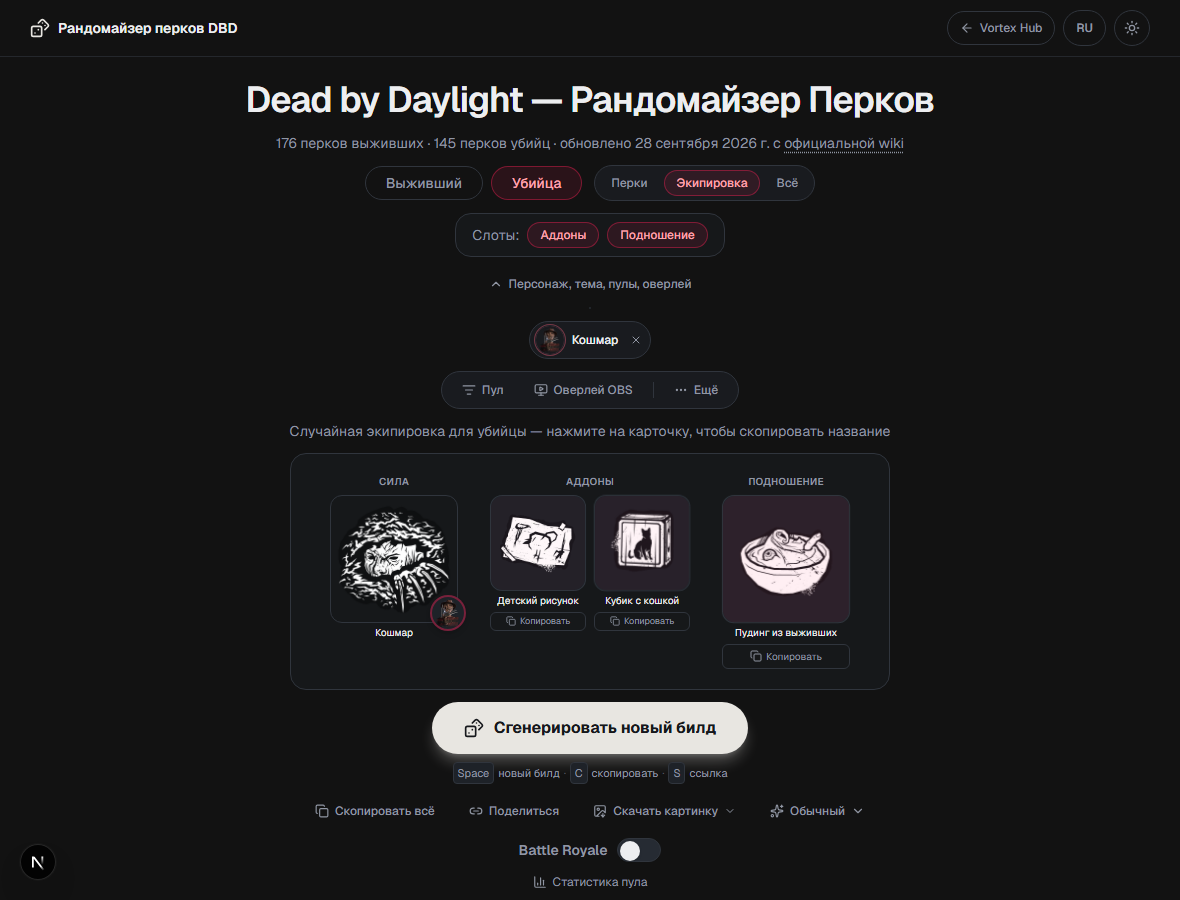
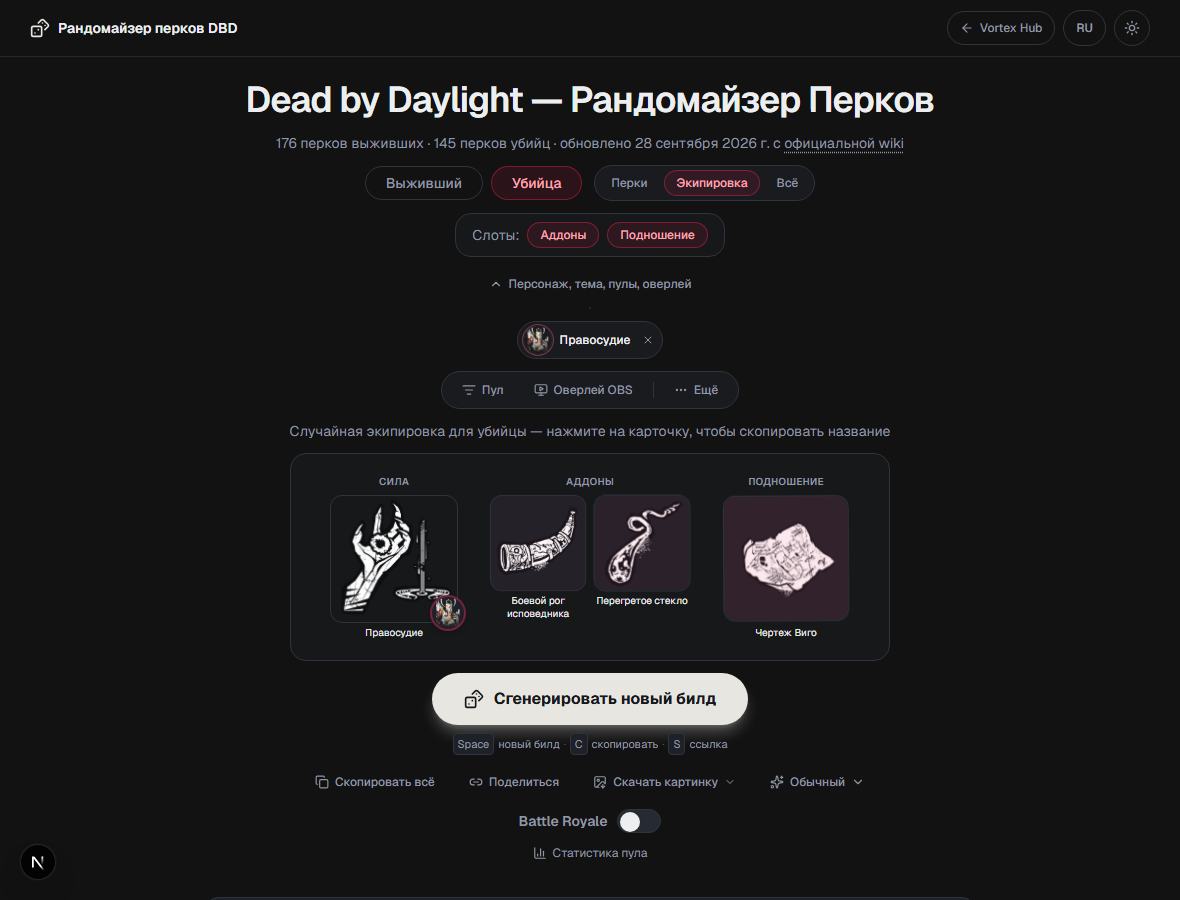
Match the loadout pieces to the perk cards
"All" mode showed two answers to the same question: perk cards had copy as
a corner icon, loadout pieces still had a labelled button under every
slot.

The corner affordance moved to components/dbd/card-affordance.ts so both
grids read from one definition rather than a copy that can drift.

Worth saying why this is safe, because the button being replaced carried a
comment defending itself: the loadout copy WAS a hover-only icon once, and
was made a labelled always-visible button precisely because a touch device
could never reveal it. The icon only comes back because the shared
treatment answers that — `pointer-coarse:opacity-100` turns it on and
sizes it to 40px wherever there is no hover. That clause is the whole
reason this is not a revert.

Copy now sits inside the tile, so it needed the stopPropagation the old
sibling button never did: the tile itself opens the description.

Named after the piece, like the perk cards. The stage controls and both
detail modals keep their labelled Copy.

diff --git a/components/dbd/loadout-grid.tsx b/components/dbd/loadout-grid.tsx
@@ -14,6 +14,7 @@ import { useDescription } from "@/lib/descriptions";
 import { DescriptionSkeleton } from "./perk-grid";
 import { useModal } from "@/lib/use-modal";
 import { ROLE_COLOR } from "@/lib/role-color";
+import { CORNER_BUTTON } from "./card-affordance";
 import { cn } from "@/lib/cn";
 import { GENERAL_CHARACTER } from "@/lib/types";
 import { useT } from "@/lib/i18n";
@@ -222,7 +223,7 @@ function PieceSlot({
   const dim = size === "lg" ? "size-24 sm:size-28 lg:size-32" : "size-16 sm:size-20 lg:size-24";
   const labelWidth = size === "lg" ? "w-24 sm:w-28 lg:w-32" : "w-16 sm:w-20 lg:w-24";
   return (
-    <div className="flex flex-col items-center gap-1">
+    <div className="group flex flex-col items-center gap-1">
       <div className={cn(dim, "relative shrink-0")}>
         <AnimatePresence mode="wait">
           {piece ? (
@@ -299,6 +300,24 @@ function PieceSlot({
                 alt={piece.name[language]}
                 className="size-full icon-art object-cover"
               />
+              {/* stopPropagation, because this one sits INSIDE the tile.
+                  The old button was a sibling below it and never had to
+                  care; here the tile itself opens the description, and
+                  without this every copy would open it too. Same hazard
+                  the perk cards have — see lib/focus.ts. */}
+              <button
+                type="button"
+                onClick={(e) => {
+                  e.stopPropagation();
+                  onCopy(piece);
+                }}
+                aria-label={
+                  t({ ru: "Копировать:", en: "Copy:" }) + " " + piece.name[language]
+                }
+                className={cn(CORNER_BUTTON, "absolute top-1 right-1 z-10")}
+              >
+                <Copy className="size-3.5" />
+              </button>
             </motion.div>
           ) : (
             <motion.div
@@ -321,36 +340,7 @@ function PieceSlot({
       >
         {piece ? piece.name[language] : " "}
       </span>
-      {piece && <PieceCopyButton size={size} onClick={() => onCopy(piece)} t={t} />}
     </div>
-  );
-}
-
-/** A small, always-visible "Copy" button under a loadout piece — matches
- *  PerkGrid's card treatment (see perk-grid.tsx) instead of the tiny
- *  hover-only icon this replaced, which a touch device could never
- *  reveal at all. */
-function PieceCopyButton({
-  size,
-  onClick,
-  t,
-}: {
-  size: "lg" | "sm";
-  onClick: () => void;
-  t: TFn;
-}) {
-  return (
-    <button
-      type="button"
-      onClick={onClick}
-      className={cn(
-        "tap flex items-center justify-center gap-1 rounded-md border border-border text-muted transition-colors hover:border-accent/50 hover:bg-accent/10 hover:text-accent",
-        size === "lg" ? "w-24 py-1 text-[0.625rem] sm:w-28 lg:w-32" : "w-16 py-0.5 text-[0.5625rem] sm:w-20 lg:w-24",
-      )}
-    >
-      <Copy className={size === "lg" ? "size-3" : "size-2.5"} />
-      {t({ ru: "Копировать", en: "Copy" })}
-    </button>
   );
 }
 

diff --git a/components/dbd/card-affordance.ts b/components/dbd/card-affordance.ts
@@ -1,0 +1,30 @@
+import { cn } from "@/lib/cn";
+
+/* The small circular controls in a build card's corner. Shared by the perk
+   cards and the loadout pieces so "All" mode does not show two different
+   answers to the same question.
+
+   The dark plate is deliberate and doesn't follow the theme: these sit on
+   top of the game's artwork, which is light line-art in both themes, so a
+   themed plate would vanish on one of them.
+
+   Split into base/idle so a control with its own always-visible state —
+   the padlock on a pinned slot — can reuse the shape while supplying its
+   own colours. */
+export const CORNER_BUTTON_BASE =
+  "flex size-6 pointer-coarse:size-10 items-center justify-center rounded-full backdrop-blur-sm transition-opacity disabled:pointer-events-none disabled:opacity-30";
+
+/* `pointer-coarse` is doing real work here, not polish. These were
+   `opacity-0` until hover, and a phone never hovers — so on touch the
+   reroll and the padlock were invisible *and* 22px, which means
+   single-slot reroll and pinning simply did not exist on mobile. Revealed
+   and enlarged where there is no hover to reveal them.
+
+   That clause is also what makes this safe for the loadout pieces. Their
+   copy button was a hover-only icon once and was replaced with a labelled
+   always-visible one precisely because touch could never reveal it; the
+   icon only comes back now because this treatment answers that. */
+export const CORNER_BUTTON_IDLE =
+  "bg-black/40 text-white/80 opacity-0 pointer-coarse:opacity-100 group-hover:opacity-100 hover:bg-black/60 hover:text-white focus-visible:opacity-100";
+
+export const CORNER_BUTTON = cn(CORNER_BUTTON_BASE, CORNER_BUTTON_IDLE);

diff --git a/components/dbd/perk-grid.tsx b/components/dbd/perk-grid.tsx
@@ -16,22 +16,12 @@ import { useDescription } from "@/lib/descriptions";
 import { useModal } from "@/lib/use-modal";
 import { wrongDataUrl } from "@/lib/repo";
 import { Highlighted } from "./highlighted-text";
+import {
+  CORNER_BUTTON,
+  CORNER_BUTTON_BASE,
+  CORNER_BUTTON_IDLE,
+} from "./card-affordance";
 
-/* The small circular controls in a perk card's top-right corner. Split into
-   base/idle so the padlock can reuse the shape while supplying its own
-   always-visible pinned colours. The dark plate is deliberate and doesn't
-   follow the theme: these sit on top of the perk artwork, which is light
-   line-art in both themes, so a themed plate would vanish on one of them. */
-/* `pointer-coarse` is doing real work here, not polish. These were
-   `opacity-0` until hover, and a phone never hovers — so on touch the
-   reroll and the padlock were invisible *and* 22px, which means
-   single-slot reroll and pinning simply did not exist on mobile. Revealed
-   and enlarged where there is no hover to reveal them. */
-const CORNER_BUTTON_BASE =
-  "flex size-6 pointer-coarse:size-10 items-center justify-center rounded-full backdrop-blur-sm transition-opacity disabled:pointer-events-none disabled:opacity-30";
-const CORNER_BUTTON_IDLE =
-  "bg-black/40 text-white/80 opacity-0 pointer-coarse:opacity-100 group-hover:opacity-100 hover:bg-black/60 hover:text-white focus-visible:opacity-100";
-const CORNER_BUTTON = cn(CORNER_BUTTON_BASE, CORNER_BUTTON_IDLE);
 
 /* The reroll button carries its keyboard digit, so it is a pill on pointer
    devices rather than a circle. Back to a plain circle under
